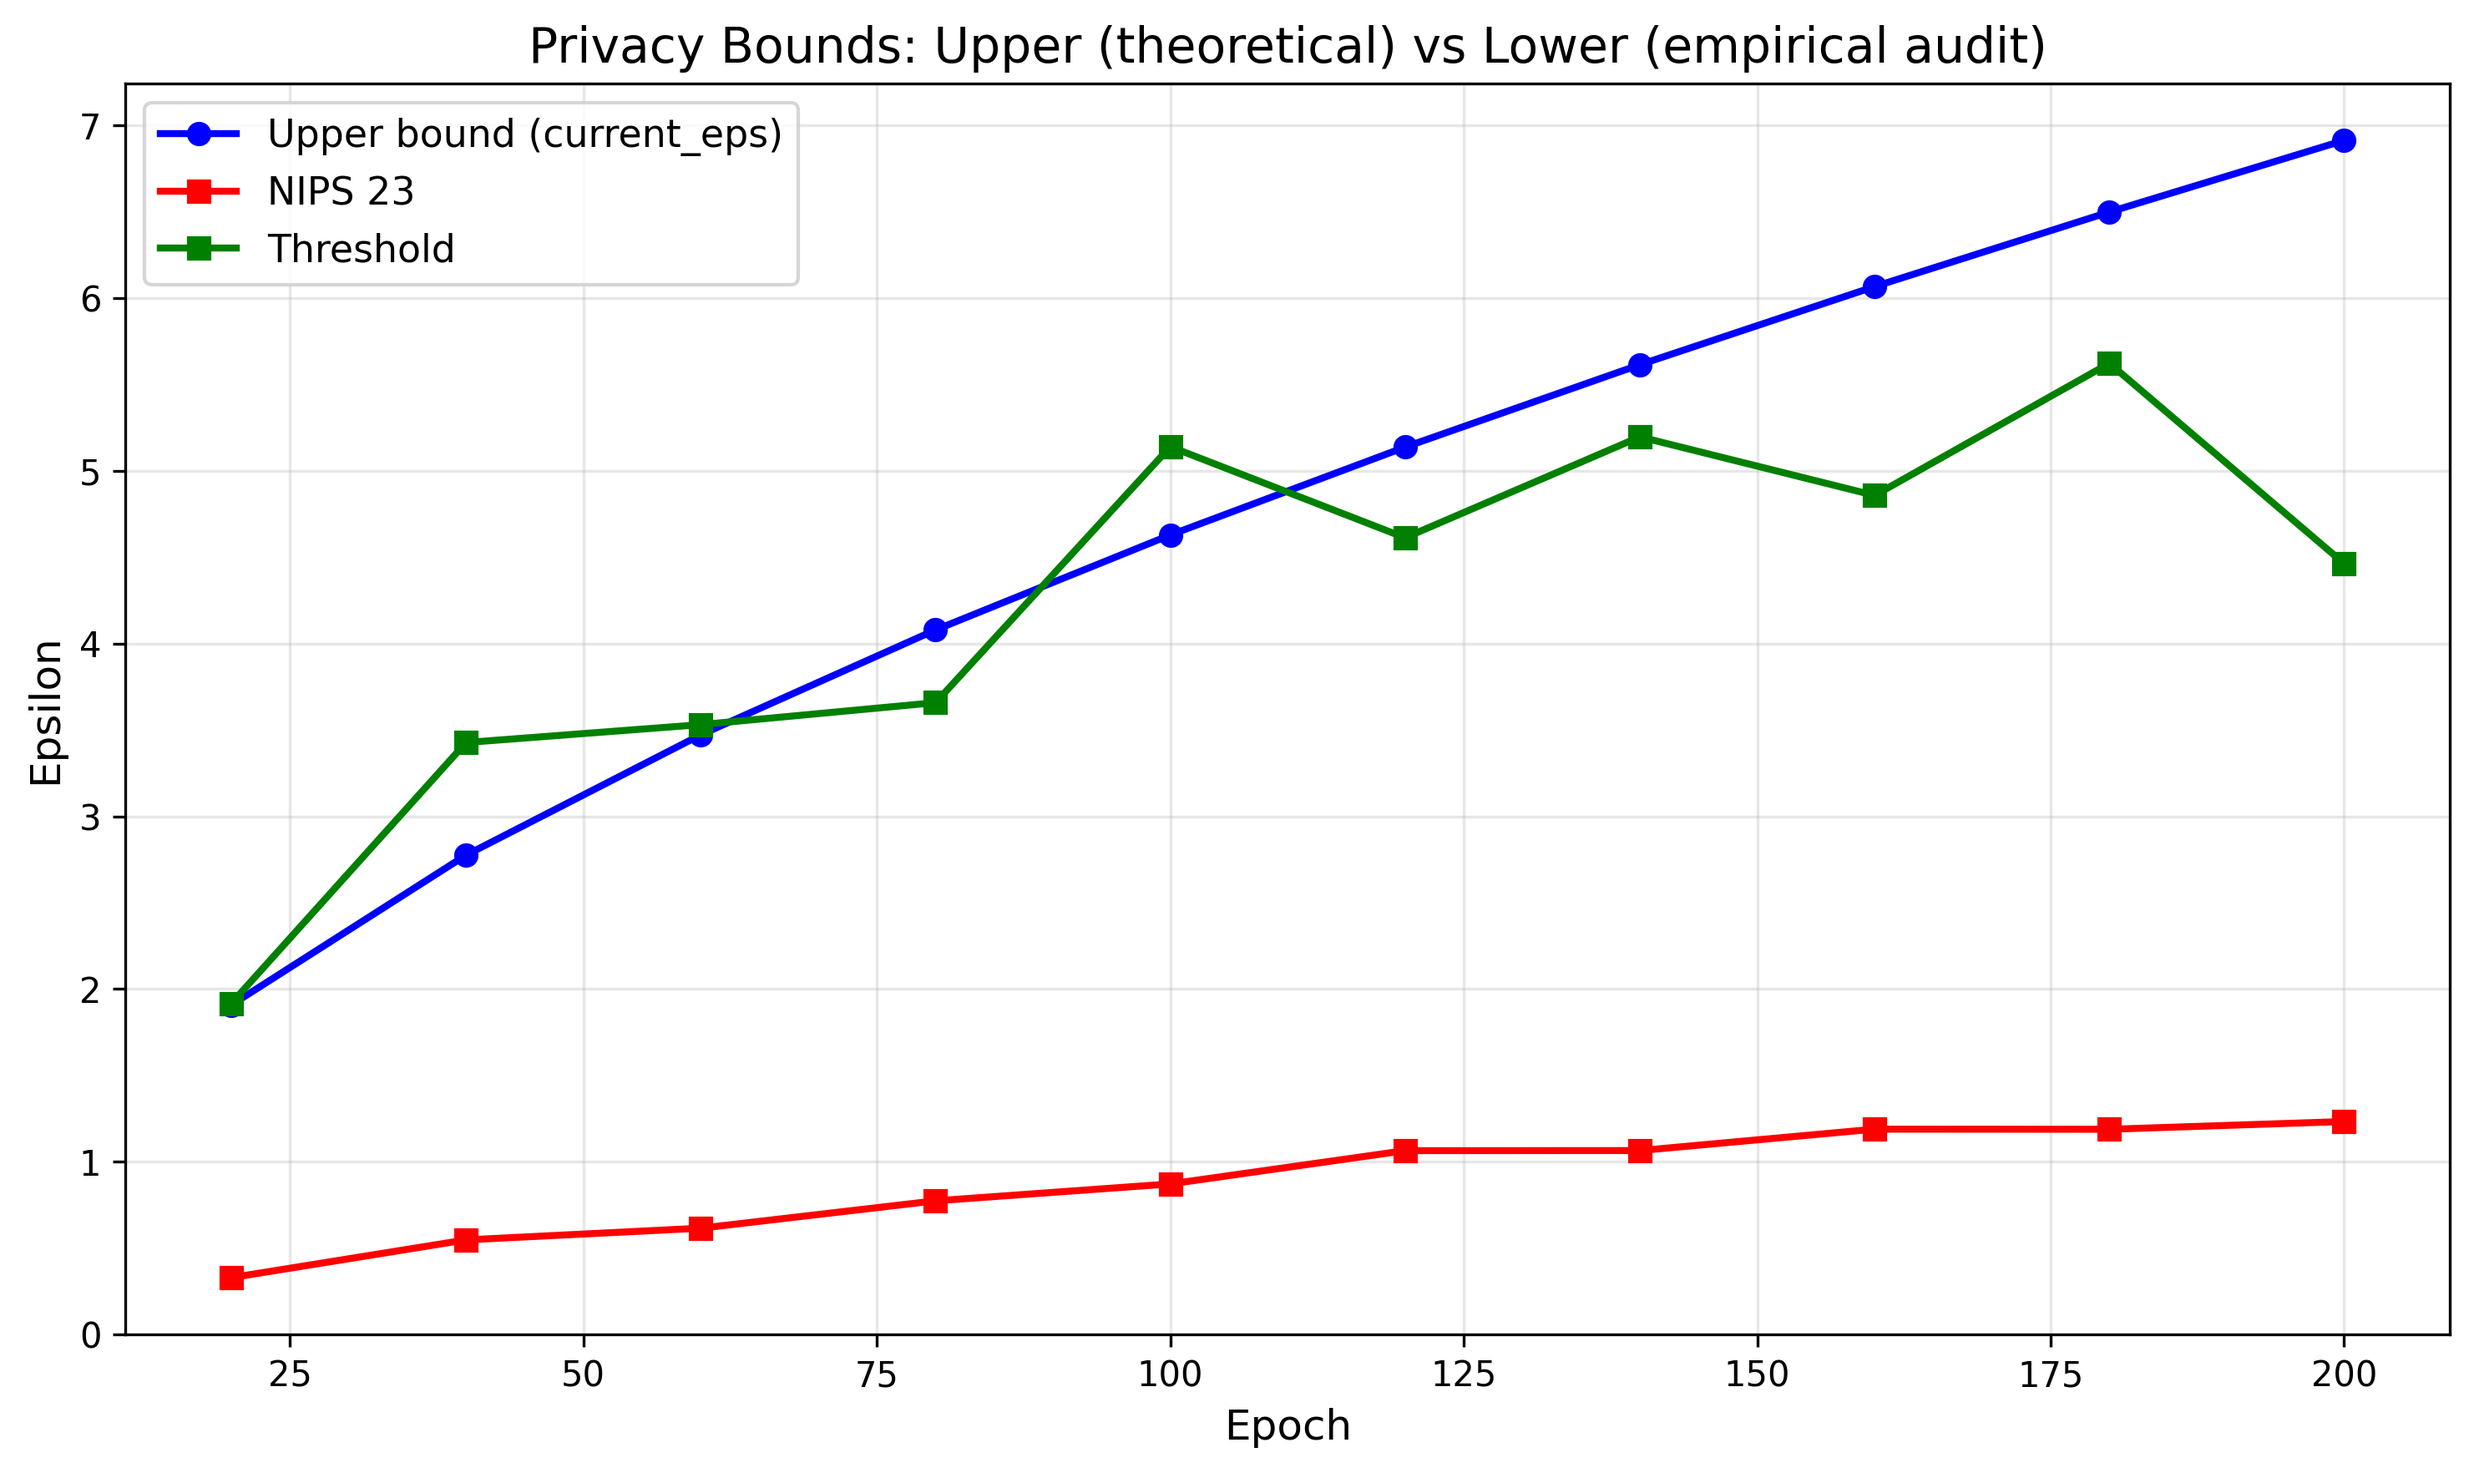
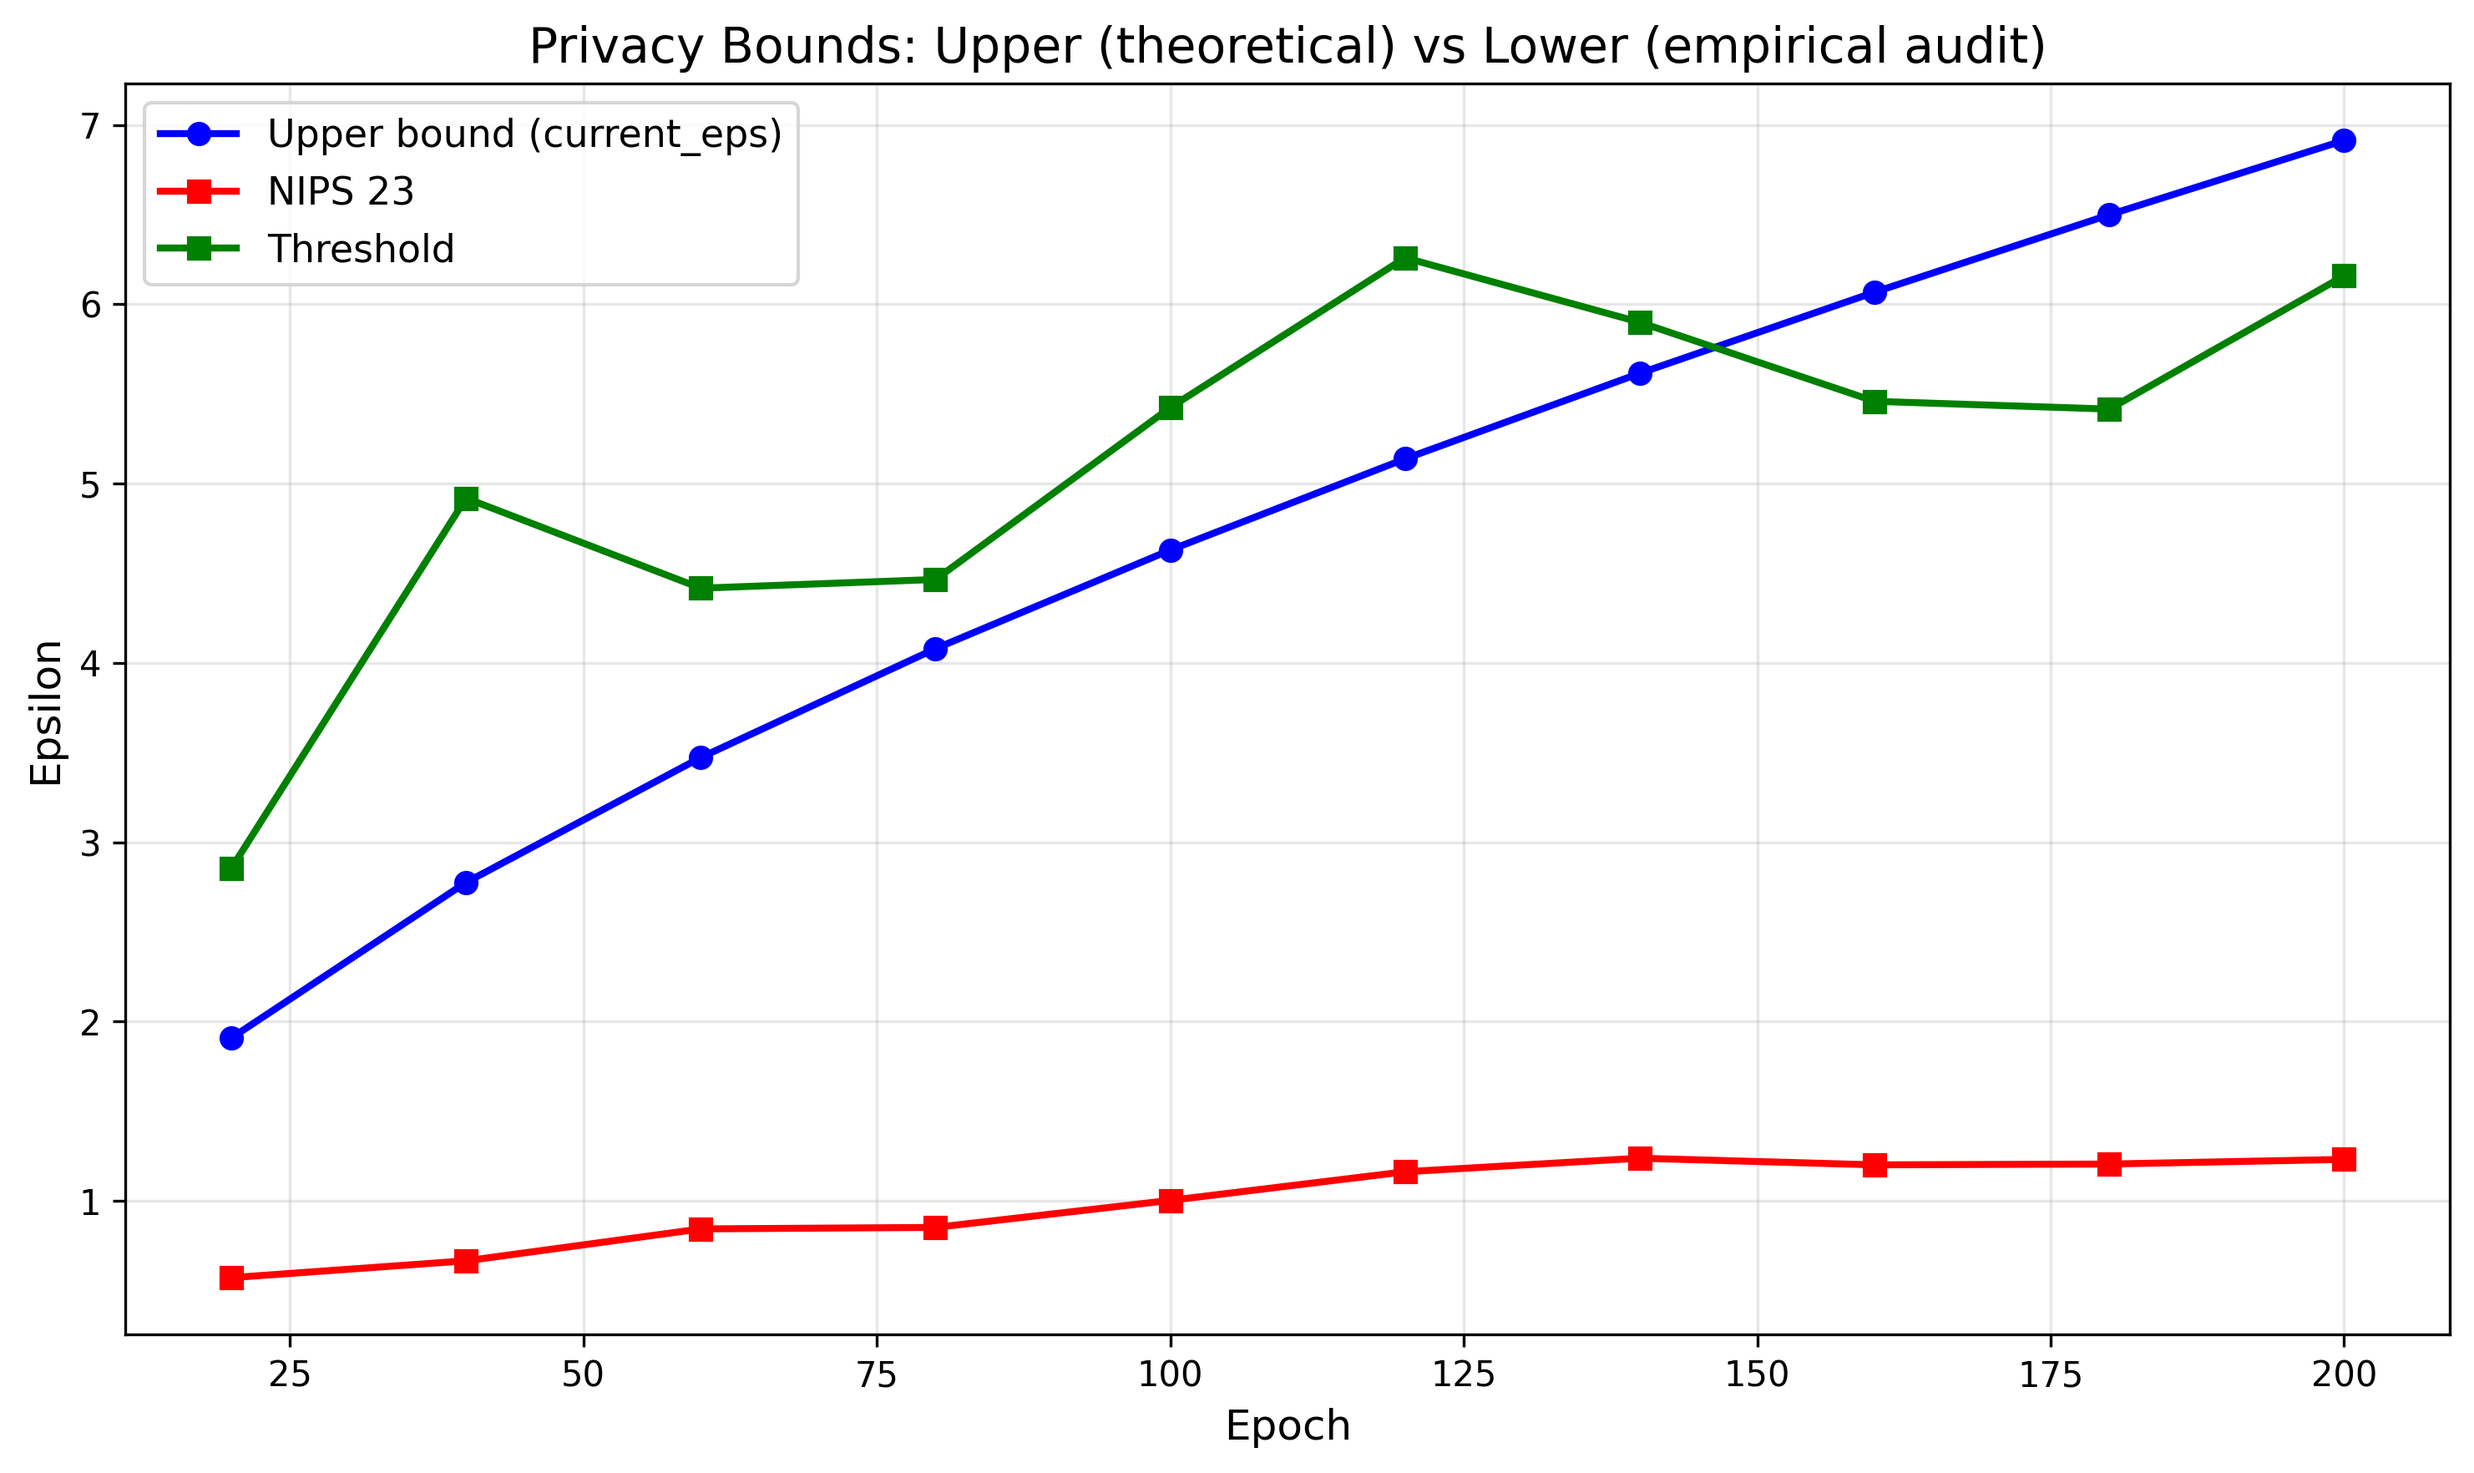
checkpoint

diff --git a/src/train.py b/src/train.py
@@ -108,7 +108,8 @@ def _whitebox_dp_step(
             if param_idx not in canary_dirac["by_param"]:
                 continue
             flat_indices, canary_ids = canary_dirac["by_param"][param_idx]
-            delta = (p.grad - base_summed[param_idx]).view(-1)
+            # delta = (p.grad - base_summed[param_idx]).view(-1)
+            delta = p.grad.view(-1)
             step_scores[canary_ids] = delta[flat_indices]
         scores.append(step_scores.detach().cpu().tolist())
         if include_flags is not None:
